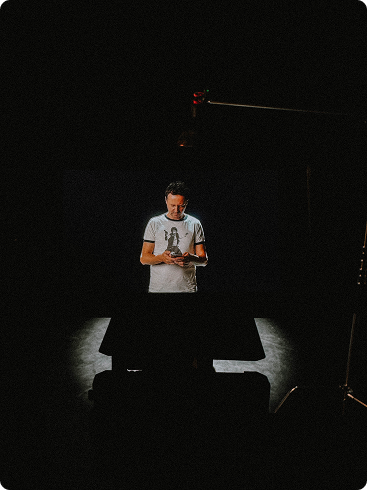
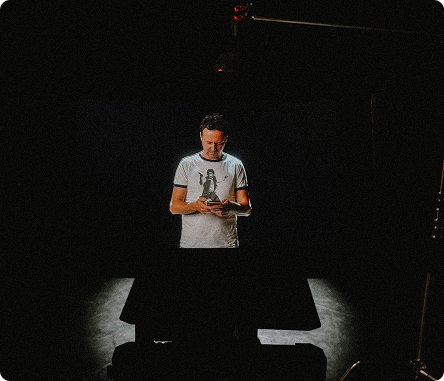
update site

diff --git a/public/css/about.css b/public/css/about.css
@@ -18,9 +18,13 @@
   line-height: 1.4;
 }
 
+.mid-text {
+  font-weight: 300;
+  font-size: clamp(0.95rem, 1vw + 0.5rem, 1.4rem);
+  line-height: 1.4;
+}
 
-
-.small-text bold{
+.mid-text bold{
   font-weight: 800;
 }
 .bolder{
@@ -28,7 +32,7 @@
 }
 
 .fa-square{
-  font-size: clamp(0.85rem, 1vw + 0.5rem, 1.2rem);
+  font-size: clamp(0.85rem, 1vw + 0.5rem, 2rem);
   margin-right: 5px;
   color: #F5C252;
 }
@@ -50,4 +54,35 @@
   border: solid 3px #F5C252;
   border-radius: 5px;
   padding:10px ;
+}
+
+.photo-row {
+    display: flex;
+    gap: 1rem;
+    margin-bottom: 1rem;
+    width: 100%;
+    height: 40vh; /* Set a consistent height for both rows */
+}
+
+.photo-row img {
+    flex: 1; /* Changed from flex-grow: 1 */
+    object-fit: cover;
+    height: 100%; /* Fill the row height */
+    border-radius: 8px;
+    min-width: 0; /* Prevents overflow on small screens */
+}
+
+/* Responsive adjustments */
+@media (max-width: 768px) {
+    .photo-row {
+        height: 135px; /* Smaller height on tablets */
+        gap: 0.5rem;
+    }
+}
+
+@media (max-width: 576px) {
+    .photo-row {
+        height: 110px; /* Even smaller on mobile */
+        gap: 0.25rem;
+    }
 }

diff --git a/public/css/global.css b/public/css/global.css
@@ -105,3 +105,12 @@ body {
 .bold{
   font-weight: 700;
 }
+
+.mid-text bold{
+  font-weight: 800;
+}
+.mid-text {
+  font-weight: 300;
+  font-size: clamp(0.95rem, 1vw + 0.5rem, 1.4rem);
+  line-height: 1.4;
+}
